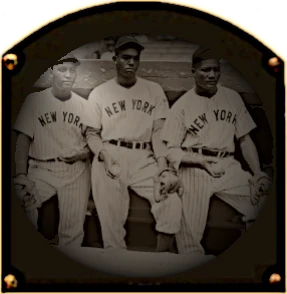
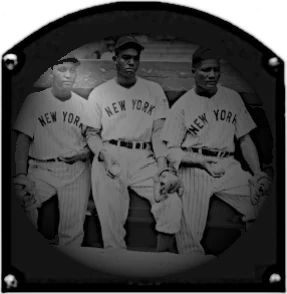
* [Changed] Images on HoF and HELP pages.
+ bling

diff --git a/www/themes/default/themes.html b/www/themes/default/themes.html
@@ -16,6 +16,9 @@
 <form action="{url}" method="get">
 	<input name="key" value="{$form_key}" type="hidden">
 	<div id="ps-page-title">
+		<div id="ps-title-logo">
+			<img src="{theme->url}/img/v_bats_comp_64X64.webp" alt="The VRat" width="64" height="64">
+		</div>
 		<div class="inner">
 		<h1><#Theme Gallery#></h1>
 		<h2><#Select a theme from this gallery.#> <#Themes will be applied to your session even if you're not logged in.#></h2>

diff --git a/www/themes/default/awards.html b/www/themes/default/awards.html
@@ -5,6 +5,9 @@
 <div id="ps-main">
 
 	<div id="ps-page-title">
+		<div id="ps-title-logo">
+			<img src="{theme->url}/img/v_bats_comp_64X64.webp" alt="The VRat" width="64" height="64">
+		</div>
 		<div class="inner">
 		<h1><#Hall of Fame#>{if $conf.main.site_name} <#for#> {$conf.main.site_name}{/if}</h1>
 		<h2><#default awards for the current season will not display until the current season is at least half completed#></h2>

diff --git a/www/themes/default/division.html b/www/themes/default/division.html
@@ -5,6 +5,9 @@
 <div id="ps-main">
 
 	<div id="ps-page-title">
+		<div id="ps-title-logo">
+			<img src="{theme->url}/img/v_bats_comp_64X64.webp" alt="The VRat" width="64" height="64">
+		</div>
 		<div class="inner">
 		<span>
 			<a href="division.php?id={$id}{if $season}&season={$season}{/if}" title="<#Clear Sorts#>" alt="<#Clear Sorts#>"><img id="ps-search-clear" src="{theme->url}/img/icons/turd.gif"></a>

diff --git a/www/themes/default/roster.html b/www/themes/default/roster.html
@@ -5,6 +5,9 @@
 <div id="ps-main">
 
 	<div id="ps-page-title">
+		<div id="ps-title-logo">
+			<img src="{theme->url}/img/v_bats_comp_64X64.webp" alt="The VRat" width="64" height="64">
+		</div>
 		<div class="inner">
 			<span>
 				<a href="roster.php?id={$id}{if $season}&season={$season}{/if}" title="<#Clear Sorts#>" alt="<#Clear Sorts#>"><img id="ps-search-clear" src="{theme->url}/img/icons/turd.gif"></a>

diff --git a/www/themes/default/help.html b/www/themes/default/help.html
@@ -5,6 +5,9 @@
 <div id="ps-main">
 <form action="{url}" method="get">
 	<div id="ps-page-title">
+		<div id="ps-title-logo">
+			<img src="{theme->url}/img/v_bats_comp_64X64.webp" alt="The VRat" width="64" height="64">
+		</div>
 		<div class="inner">
 		<span>
 			<input id='q-hdr' type="text" name="q" value="{if $results}{$results.phrase|escape}{else}{$q|escape}{/if}" class="field hsearch" maxlength="100">

diff --git a/www/themes/default/wc.html b/www/themes/default/wc.html
@@ -15,6 +15,9 @@
 <div id="ps-main-content" class="ps-page-index">
 <form action="{url}" method="get">
 	<div id="ps-page-title">
+		<div id="ps-title-logo">
+			<img src="{theme->url}/img/v_bats_comp_64X64.webp" alt="The VRat" width="64" height="64">
+		</div>
 		<div class="inner">
 		<h1><#Wild Card Standings#>{if $conf.main.site_name} for {$conf.main.site_name}{/if}</h1>
 		<h2>

diff --git a/www/themes/default/team.html b/www/themes/default/team.html
@@ -5,6 +5,9 @@
 <div id="ps-main">
 
 	<div id="ps-page-title">
+		<div id="ps-title-logo">
+			<img src="{theme->url}/img/v_bats_comp_64X64.webp" alt="The VRat" width="64" height="64">
+		</div>
 		<div class="inner">
 			<span>
 				<a href="team.php?id={$id}" title="<#Clear Sorts#>" alt="<#Clear Sorts#>"><img id="ps-search-clear" src="{theme->url}/img/icons/turd.gif"></a>

diff --git a/www/themes/default/css/2column.css b/www/themes/default/css/2column.css
@@ -154,13 +154,13 @@
 }
 
 #ps-hof-img {
-	height: 416px;
-	background: url(../img/hof_plaque.webp) no-repeat;
+	height: 297px;
+	background: url(../img/history.webp) no-repeat;
 }
 
 #ps-history-img {
-	height: 297px;
-	background: url(../img/history.webp) no-repeat;
+	height: 284px;
+	background: url(../img/psvrat_logo_comp_284X284.webp) no-repeat;
 }
 
 #ps-random-img {

diff --git a/www/themes/default_cc-bb/css/2column.css b/www/themes/default_cc-bb/css/2column.css
@@ -155,13 +155,13 @@
 }
 
 #ps-hof-img {
-	height: 416px;
-	background: url(../img/hof_plaque.webp) no-repeat;
+	height: 297px;
+	background: url(../img/history.webp) no-repeat;
 }
 
 #ps-history-img {
-	height: 297px;
-	background: url(../img/history.webp) no-repeat;
+	height: 284px;
+	background: url(../img/psvrat_logo_comp_284X284.webp) no-repeat;
 }
 
 #ps-random-img {

diff --git a/www/themes/default_fiori-bb/css/2column.css b/www/themes/default_fiori-bb/css/2column.css
@@ -155,13 +155,13 @@
 }
 
 #ps-hof-img {
-	height: 416px;
-	background: url(../img/hof_plaque.webp) no-repeat;
+	height: 297px;
+	background: url(../img/history.webp) no-repeat;
 }
 
 #ps-history-img {
-	height: 297px;
-	background: url(../img/history.webp) no-repeat;
+	height: 284px;
+	background: url(../img/psvrat_logo_comp_284X284.webp) no-repeat;
 }
 
 #ps-random-img {

diff --git a/www/themes/default_pt20x-bb/css/2column.css b/www/themes/default_pt20x-bb/css/2column.css
@@ -151,13 +151,13 @@
 }
 
 #ps-hof-img {
-	height: 416px;
-	background: url(../img/hof_plaque.webp) no-repeat;
+	height: 297px;
+	background: url(../img/history.webp) no-repeat;
 }
 
 #ps-history-img {
-	height: 297px;
-	background: url(../img/history.webp) no-repeat;
+	height: 284px;
+	background: url(../img/psvrat_logo_comp_284X284.webp) no-repeat;
 }
 
 #ps-random-img {

diff --git a/www/themes/default_ss-bb/css/2column.css b/www/themes/default_ss-bb/css/2column.css
@@ -155,13 +155,13 @@
 }
 
 #ps-hof-img {
-	height: 416px;
-	background: url(../img/hof_plaque.webp) no-repeat;
+	height: 297px;
+	background: url(../img/history.webp) no-repeat;
 }
 
 #ps-history-img {
-	height: 297px;
-	background: url(../img/history.webp) no-repeat;
+	height: 284px;
+	background: url(../img/psvrat_logo_comp_284X284.webp) no-repeat;
 }
 
 #ps-random-img {
